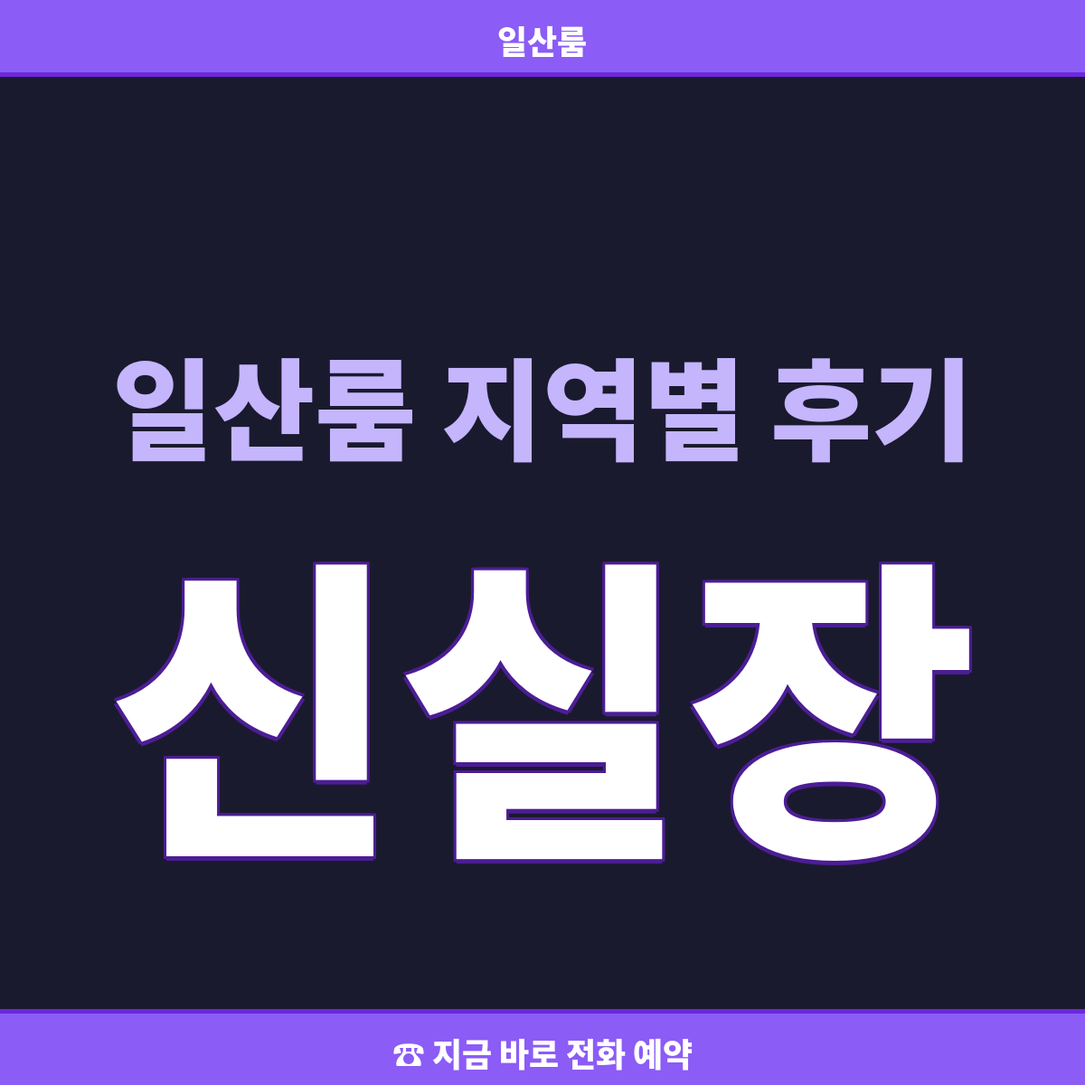
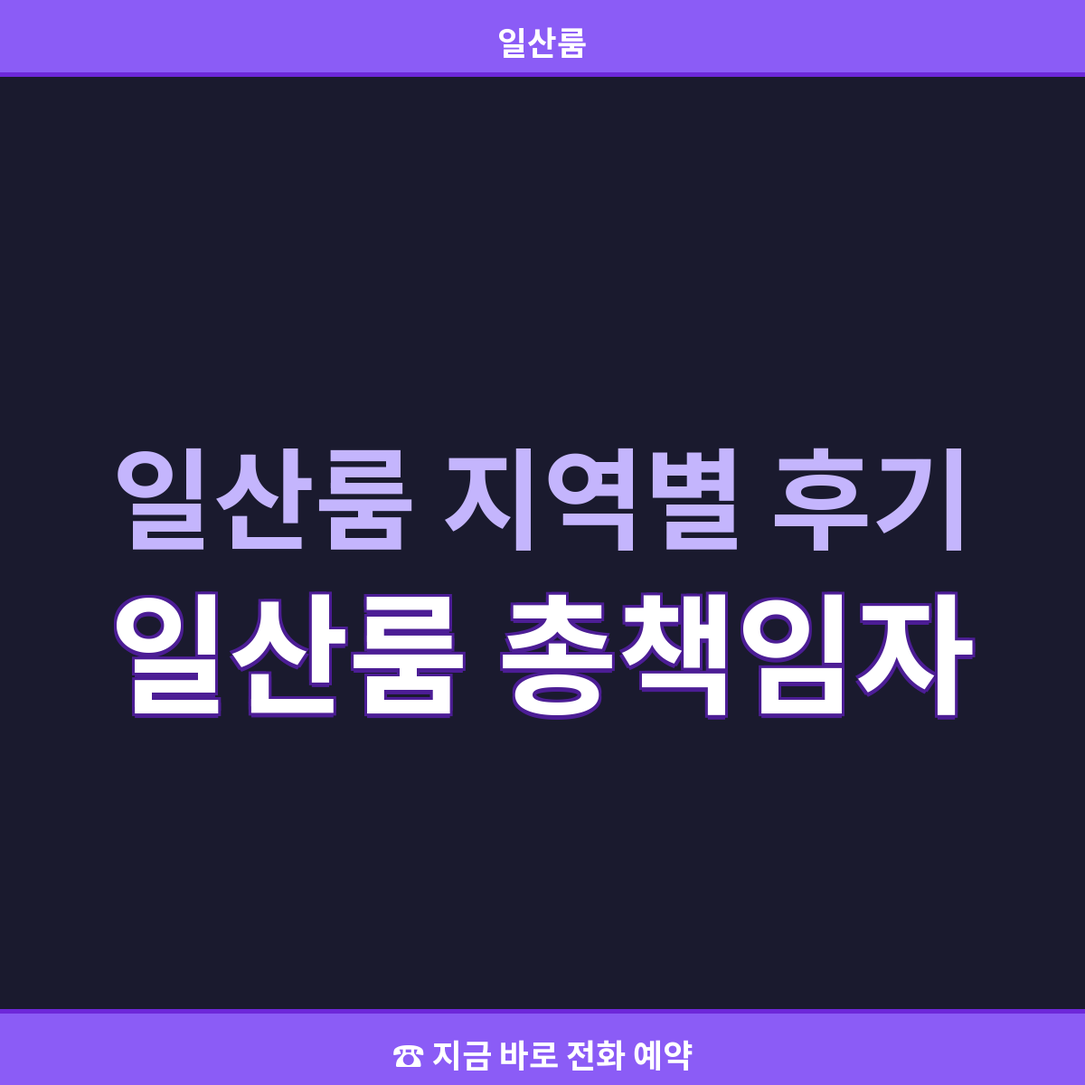
광고주 세트 교체 — 옛 닉네임/번호 -> 일산룸 총책임자 010-4117-5556 (대표님 지시 2026-09-22)
글자와 그림을 함께 바꿨다. 그림은 저장소의 og 생성기를 그대로 다시 돌려 만들었다
(생성기 안 문구도 같이 바뀌어 있어 다음 실행에도 새 값이 나온다).

Changed region(s): [[0.0925, 0.3083, 0.925, 0.8017], [0.37, 0.9558, 0.6475, 0.9867], [0.4625, 0.0308, 0.555, 0.0617]]

diff --git a/index.html b/index.html
@@ -12,7 +12,7 @@
 <title>일산룸 — 예약 전에 반드시 읽어야 할 글</title>
 <meta name="description" content="일산룸 첫 방문자 90%가 모르고 갔다가 후회하는 3가지를 한 번에 정리. 라페스타·웨스턴돔·장항동 권역별 분위기와 예산, 예약 골든타임, 인기 룸 잡는 순서까지 현지에서 발로 뛴 2026년 최신 실전 정보를 광고 0%로 공개합니다.">
 <meta name="keywords" content="일산룸, 일산룸 예약, 일산룸 추천, 일산 룸, 라페스타 룸, 웨스턴돔 룸, 장항동 룸, 고양시 룸, 일산 가이드, 일산 저녁 모임">
-<meta name="author" content="신실장">
+<meta name="author" content="일산룸 총책임자">
 <meta name="robots" content="index, follow, max-image-preview:large, max-snippet:-1, max-video-preview:-1">
 <meta name="googlebot" content="index, follow, max-image-preview:large">
 <link rel="canonical" href="https://ilsanroom1.pages.dev/">
@@ -25,10 +25,10 @@
 <meta property="og:image" content="https://ilsanroom1.pages.dev/og-home.png">
 <meta property="og:image:width" content="1200">
 <meta property="og:image:height" content="1200">
-<meta property="og:image:alt" content="일산룸 가이드 — 신실장 010-3695-4929">
+<meta property="og:image:alt" content="일산룸 가이드 — 일산룸 총책임자 010-4117-5556">
 <meta property="article:published_time" content="2026-04-18T09:00:00+09:00">
 <meta property="article:modified_time" content="2026-09-10T09:00:00+09:00">
-<meta property="article:author" content="신실장">
+<meta property="article:author" content="일산룸 총책임자">
 <meta property="article:section" content="가이드">
 <meta name="twitter:card" content="summary_large_image">
 <meta name="twitter:title" content="일산룸 — 예약 전에 반드시 읽어야 할 글">
@@ -45,12 +45,12 @@
 <script type="application/ld+json">
 {"@context":"https://schema.org","@graph":[
 {"@type":"WebSite","@id":"https://ilsanroom1.pages.dev/#website","name":"일산룸 가이드","url":"https://ilsanroom1.pages.dev/","inLanguage":"ko-KR","publisher":{"@id":"https://ilsanroom1.pages.dev/#org"},"potentialAction":{"@type":"SearchAction","target":"https://ilsanroom1.pages.dev/?q={search_term_string}","query-input":"required name=search_term_string"}},
-{"@type":"Organization","@id":"https://ilsanroom1.pages.dev/#org","name":"일산룸 가이드","url":"https://ilsanroom1.pages.dev/","logo":"https://ilsanroom1.pages.dev/favicon.svg","contactPoint":{"@type":"ContactPoint","telephone":"+82-10-3695-4929","contactType":"customer service","areaServed":"KR","availableLanguage":"ko"}},
-{"@type":"LocalBusiness","@id":"https://ilsanroom1.pages.dev/#business","name":"일산룸 가이드","image":"https://ilsanroom1.pages.dev/og-home.png","url":"https://ilsanroom1.pages.dev/","telephone":"+82-10-3695-4929","priceRange":"₩₩-₩₩₩","address":{"@type":"PostalAddress","streetAddress":"일산동구 장항동","addressLocality":"고양시","addressRegion":"경기도","addressCountry":"KR"},"geo":{"@type":"GeoCoordinates","latitude":"37.6584","longitude":"126.7697"},"areaServed":[{"@type":"City","name":"고양시"},{"@type":"AdministrativeArea","name":"경기도"}],"openingHoursSpecification":[{"@type":"OpeningHoursSpecification","dayOfWeek":["Monday","Tuesday","Wednesday","Thursday","Friday","Saturday","Sunday"],"opens":"18:00","closes":"05:00"}]},
-{"@type":"Article","@id":"https://ilsanroom1.pages.dev/#article","headline":"일산룸 — 예약 전에 반드시 읽어야 할 글","description":"일산룸 첫 방문자 90%가 모르고 갔다가 후회하는 3가지. 라페스타·웨스턴돔·장항동 권역별 분위기·예산·예약 골든타임 실전 정보.","image":"https://ilsanroom1.pages.dev/og-home.png","datePublished":"2026-04-18T09:00:00+09:00","dateModified":"2026-09-10T09:00:00+09:00","author":{"@type":"Person","name":"신실장"},"publisher":{"@id":"https://ilsanroom1.pages.dev/#org"},"mainEntityOfPage":{"@type":"WebPage","@id":"https://ilsanroom1.pages.dev/"},"inLanguage":"ko-KR"},
+{"@type":"Organization","@id":"https://ilsanroom1.pages.dev/#org","name":"일산룸 가이드","url":"https://ilsanroom1.pages.dev/","logo":"https://ilsanroom1.pages.dev/favicon.svg","contactPoint":{"@type":"ContactPoint","telephone":"+82-10-4117-5556","contactType":"customer service","areaServed":"KR","availableLanguage":"ko"}},
+{"@type":"LocalBusiness","@id":"https://ilsanroom1.pages.dev/#business","name":"일산룸 가이드","image":"https://ilsanroom1.pages.dev/og-home.png","url":"https://ilsanroom1.pages.dev/","telephone":"+82-10-4117-5556","priceRange":"₩₩-₩₩₩","address":{"@type":"PostalAddress","streetAddress":"일산동구 장항동","addressLocality":"고양시","addressRegion":"경기도","addressCountry":"KR"},"geo":{"@type":"GeoCoordinates","latitude":"37.6584","longitude":"126.7697"},"areaServed":[{"@type":"City","name":"고양시"},{"@type":"AdministrativeArea","name":"경기도"}],"openingHoursSpecification":[{"@type":"OpeningHoursSpecification","dayOfWeek":["Monday","Tuesday","Wednesday","Thursday","Friday","Saturday","Sunday"],"opens":"18:00","closes":"05:00"}]},
+{"@type":"Article","@id":"https://ilsanroom1.pages.dev/#article","headline":"일산룸 — 예약 전에 반드시 읽어야 할 글","description":"일산룸 첫 방문자 90%가 모르고 갔다가 후회하는 3가지. 라페스타·웨스턴돔·장항동 권역별 분위기·예산·예약 골든타임 실전 정보.","image":"https://ilsanroom1.pages.dev/og-home.png","datePublished":"2026-04-18T09:00:00+09:00","dateModified":"2026-09-10T09:00:00+09:00","author":{"@type":"Person","name":"일산룸 총책임자"},"publisher":{"@id":"https://ilsanroom1.pages.dev/#org"},"mainEntityOfPage":{"@type":"WebPage","@id":"https://ilsanroom1.pages.dev/"},"inLanguage":"ko-KR"},
 {"@type":"BreadcrumbList","itemListElement":[{"@type":"ListItem","position":1,"name":"홈","item":"https://ilsanroom1.pages.dev/"}]},
 {"@type":"FAQPage","mainEntity":[
-{"@type":"Question","name":"일산룸 예약은 어떻게 하나요?","acceptedAnswer":{"@type":"Answer","text":"당일 오후 3시 전에 전화로 예약하는 것이 가장 좋습니다. 방문 인원, 희망 시간, 예산 범위를 구체적으로 말하면 딱 맞는 룸을 배정받을 수 있습니다. 신실장 010-3695-4929로 연락하세요."}},
+{"@type":"Question","name":"일산룸 예약은 어떻게 하나요?","acceptedAnswer":{"@type":"Answer","text":"당일 오후 3시 전에 전화로 예약하는 것이 가장 좋습니다. 방문 인원, 희망 시간, 예산 범위를 구체적으로 말하면 딱 맞는 룸을 배정받을 수 있습니다. 일산룸 총책임자 010-4117-5556로 연락하세요."}},
 {"@type":"Question","name":"일산룸 예산은 어느 정도인가요?","acceptedAnswer":{"@type":"Answer","text":"권역별로 차이가 있습니다. 라페스타는 2인 기준 중급, 웨스턴돔은 상급, 장항동은 중상급 수준입니다. 기본 세팅 포함 여부에 따라 달라지므로 예약 전화 시 총 예상 비용을 반드시 확인하세요."}},
 {"@type":"Question","name":"라페스타·웨스턴돔·장항동 권역 차이는?","acceptedAnswer":{"@type":"Answer","text":"라페스타는 정발산역 도보 5분으로 접근성 최고, 캐주얼 분위기입니다. 웨스턴돔은 고급 인테리어와 세심한 서비스로 비즈니스 모임에 적합합니다. 장항동은 조용하고 프라이빗하며 단골 위주 맞춤 서비스가 장점입니다."}},
 {"@type":"Question","name":"처음 가는데 어느 권역이 좋나요?","acceptedAnswer":{"@type":"Answer","text":"처음이라면 라페스타를 권합니다. 접근성이 좋고 예산 부담이 적으며, 분위기가 캐주얼해서 초보자도 편하게 이용할 수 있습니다."}},
@@ -144,7 +144,7 @@
 
 <figure class="lazy-img"><img data-src="https://images.unsplash.com/photo-1519690889869-e705e59f72e1?w=800&q=80&auto=format" alt="프라이빗 룸 내부" width="800" height="500" loading="lazy" decoding="async"><figcaption>6인 이상 대형 룸은 반드시 사전 예약이 필요하다.</figcaption></figure>
 
-<div class="cta"><a href="tel:01036954929" class="cta-btn" aria-label="신실장에게 전화 — 010-3695-4929">전화 예약 — 신실장 010-3695-4929</a></div>
+<div class="cta"><a href="tel:01041175556" class="cta-btn" aria-label="일산룸 총책임자에게 전화 — 010-4117-5556">전화 예약 — 일산룸 총책임자 010-4117-5556</a></div>
 
 <h2>일산룸, 이런 분위기를 기대해도 좋다</h2>
 
@@ -167,7 +167,7 @@
 <div class="faq">
 <details class="faq-item" open>
 <summary class="faq-q">일산룸 예약은 어떻게 하나요?</summary>
-<p class="faq-a">일산룸 예약은 당일 오후 3시 전에 전화로 하는 것이 가장 좋다. 방문 인원, 희망 시간, 예산 범위를 구체적으로 말하면 딱 맞는 룸을 배정받을 수 있다. 금요일·토요일은 당일 예약이 어려운 경우가 많으니 최소 하루 전에 연락하는 것을 권한다. 신실장 010-3695-4929로 전화하면 상세하게 안내받을 수 있다.</p>
+<p class="faq-a">일산룸 예약은 당일 오후 3시 전에 전화로 하는 것이 가장 좋다. 방문 인원, 희망 시간, 예산 범위를 구체적으로 말하면 딱 맞는 룸을 배정받을 수 있다. 금요일·토요일은 당일 예약이 어려운 경우가 많으니 최소 하루 전에 연락하는 것을 권한다. 일산룸 총책임자 010-4117-5556로 전화하면 상세하게 안내받을 수 있다.</p>
 </details>
 <details class="faq-item">
 <summary class="faq-q">일산룸 예산은 어느 정도인가요?</summary>
@@ -221,14 +221,14 @@
 <li><a href="/legal">운영 정책 — 19+ · 합법 운영</a></li>
 </ul></nav>
 
-<div class="cta"><a href="tel:01036954929" class="cta-btn" aria-label="신실장에게 전화 — 010-3695-4929">전화 예약 — 신실장 010-3695-4929</a></div>
+<div class="cta"><a href="tel:01041175556" class="cta-btn" aria-label="일산룸 총책임자에게 전화 — 010-4117-5556">전화 예약 — 일산룸 총책임자 010-4117-5556</a></div>
 
 </article>
 </main>
 
 <footer>
 <nav class="footer-nav" aria-label="푸터 메뉴"><a href="/">일산룸 홈</a><a href="/guide">초보자 가이드</a><a href="/review">권역별 후기</a><a href="/legal">운영 정책</a></nav>
-<p>일산룸 예약 문의 — 신실장 <a href="tel:01036954929" style="color:var(--purple);font-weight:700">010-3695-4929</a></p>
+<p>일산룸 예약 문의 — 일산룸 총책임자 <a href="tel:01041175556" style="color:var(--purple);font-weight:700">010-4117-5556</a></p>
 <p>경기도 고양시 일산동구 장항동 일산룸 가이드</p>
 <p>본 사이트는 19세 이상 성인 대상 정보 제공 목적으로 운영됩니다.</p>
 <p>정보통신망법·청소년보호법·방송통신심의위원회 가이드라인 준수</p>
@@ -236,9 +236,9 @@
 </footer>
 
 <div class="phone-bar">
-<a href="tel:01036954929" class="phone-bar-btn" aria-label="신실장에게 전화하기 010-3695-4929">
+<a href="tel:01041175556" class="phone-bar-btn" aria-label="일산룸 총책임자에게 전화하기 010-4117-5556">
 <svg width="22" height="22" viewBox="0 0 24 24" fill="none" stroke="currentColor" stroke-width="2" aria-hidden="true"><path d="M22 16.92v3a2 2 0 0 1-2.18 2 19.79 19.79 0 0 1-8.63-3.07 19.5 19.5 0 0 1-6-6A19.79 19.79 0 0 1 2.12 4.11 2 2 0 0 1 4.11 2h3a2 2 0 0 1 2 1.72c.127.96.361 1.903.7 2.81a2 2 0 0 1-.45 2.11L8.09 9.91a16 16 0 0 0 6 6l1.27-1.27a2 2 0 0 1 2.11-.45c.907.339 1.85.573 2.81.7A2 2 0 0 1 22 16.92z"/></svg>
-<span>신실장 010-3695-4929</span>
+<span>일산룸 총책임자 010-4117-5556</span>
 </a>
 </div>
 

diff --git a/guide.html b/guide.html
@@ -11,7 +11,7 @@
 <title>일산룸 초보자 가이드 — 처음 가는 사람을 위한 완벽 정리</title>
 <meta name="description" content="일산룸 처음 가는 사람 절반이 어색하게 앉아만 있다 나오는 이유는 단 하나. 예약 골든타임, 깔끔한 복장 기준, 입장 30분 매너, 결제 영수증 체크까지 첫 방문 실패율 0%로 만드는 단계별 완벽 체크리스트를 솔직하게 풀었습니다.">
 <meta name="keywords" content="일산룸 초보, 일산룸 가이드, 일산룸 예약 방법, 일산룸 복장, 일산룸 매너, 일산룸 첫 방문, 일산 룸 이용법, 일산룸 결제">
-<meta name="author" content="신실장">
+<meta name="author" content="일산룸 총책임자">
 <meta name="robots" content="index, follow, max-image-preview:large, max-snippet:-1, max-video-preview:-1">
 <meta name="googlebot" content="index, follow, max-image-preview:large">
 <link rel="canonical" href="https://ilsanroom1.pages.dev/guide">
@@ -24,10 +24,10 @@
 <meta property="og:image" content="https://ilsanroom1.pages.dev/og-guide.png">
 <meta property="og:image:width" content="1200">
 <meta property="og:image:height" content="1200">
-<meta property="og:image:alt" content="일산룸 초보자 가이드 — 신실장">
+<meta property="og:image:alt" content="일산룸 초보자 가이드 — 일산룸 총책임자">
 <meta property="article:published_time" content="2026-04-18T09:00:00+09:00">
 <meta property="article:modified_time" content="2026-09-10T09:00:00+09:00">
-<meta property="article:author" content="신실장">
+<meta property="article:author" content="일산룸 총책임자">
 <meta property="article:section" content="가이드">
 <meta name="twitter:card" content="summary_large_image">
 <meta name="twitter:title" content="일산룸 초보자 가이드 — 처음 가는 사람을 위한 완벽 정리">
@@ -44,9 +44,9 @@
 <script type="application/ld+json">
 {"@context":"https://schema.org","@graph":[
 {"@type":"WebSite","@id":"https://ilsanroom1.pages.dev/#website","name":"일산룸 가이드","url":"https://ilsanroom1.pages.dev/","inLanguage":"ko-KR","publisher":{"@id":"https://ilsanroom1.pages.dev/#org"}},
-{"@type":"Organization","@id":"https://ilsanroom1.pages.dev/#org","name":"일산룸 가이드","url":"https://ilsanroom1.pages.dev/","logo":"https://ilsanroom1.pages.dev/favicon.svg","contactPoint":{"@type":"ContactPoint","telephone":"+82-10-3695-4929","contactType":"customer service","areaServed":"KR","availableLanguage":"ko"}},
-{"@type":"LocalBusiness","@id":"https://ilsanroom1.pages.dev/#business","name":"일산룸 가이드","image":"https://ilsanroom1.pages.dev/og-guide.png","url":"https://ilsanroom1.pages.dev/","telephone":"+82-10-3695-4929","priceRange":"₩₩-₩₩₩","address":{"@type":"PostalAddress","streetAddress":"일산동구 장항동","addressLocality":"고양시","addressRegion":"경기도","addressCountry":"KR"},"geo":{"@type":"GeoCoordinates","latitude":"37.6584","longitude":"126.7697"}},
-{"@type":"Article","@id":"https://ilsanroom1.pages.dev/guide#article","headline":"일산룸 초보자 가이드 — 처음 가는 사람을 위한 완벽 정리","description":"일산룸 처음이면 절반은 어색하게 앉아만 있다 나온다. 예약 골든타임·복장·매너·결제 체크리스트로 첫 방문 실패율 0%.","image":"https://ilsanroom1.pages.dev/og-guide.png","datePublished":"2026-04-18T09:00:00+09:00","dateModified":"2026-09-10T09:00:00+09:00","author":{"@type":"Person","name":"신실장"},"publisher":{"@id":"https://ilsanroom1.pages.dev/#org"},"mainEntityOfPage":{"@type":"WebPage","@id":"https://ilsanroom1.pages.dev/guide"},"inLanguage":"ko-KR"},
+{"@type":"Organization","@id":"https://ilsanroom1.pages.dev/#org","name":"일산룸 가이드","url":"https://ilsanroom1.pages.dev/","logo":"https://ilsanroom1.pages.dev/favicon.svg","contactPoint":{"@type":"ContactPoint","telephone":"+82-10-4117-5556","contactType":"customer service","areaServed":"KR","availableLanguage":"ko"}},
+{"@type":"LocalBusiness","@id":"https://ilsanroom1.pages.dev/#business","name":"일산룸 가이드","image":"https://ilsanroom1.pages.dev/og-guide.png","url":"https://ilsanroom1.pages.dev/","telephone":"+82-10-4117-5556","priceRange":"₩₩-₩₩₩","address":{"@type":"PostalAddress","streetAddress":"일산동구 장항동","addressLocality":"고양시","addressRegion":"경기도","addressCountry":"KR"},"geo":{"@type":"GeoCoordinates","latitude":"37.6584","longitude":"126.7697"}},
+{"@type":"Article","@id":"https://ilsanroom1.pages.dev/guide#article","headline":"일산룸 초보자 가이드 — 처음 가는 사람을 위한 완벽 정리","description":"일산룸 처음이면 절반은 어색하게 앉아만 있다 나온다. 예약 골든타임·복장·매너·결제 체크리스트로 첫 방문 실패율 0%.","image":"https://ilsanroom1.pages.dev/og-guide.png","datePublished":"2026-04-18T09:00:00+09:00","dateModified":"2026-09-10T09:00:00+09:00","author":{"@type":"Person","name":"일산룸 총책임자"},"publisher":{"@id":"https://ilsanroom1.pages.dev/#org"},"mainEntityOfPage":{"@type":"WebPage","@id":"https://ilsanroom1.pages.dev/guide"},"inLanguage":"ko-KR"},
 {"@type":"BreadcrumbList","itemListElement":[{"@type":"ListItem","position":1,"name":"홈","item":"https://ilsanroom1.pages.dev/"},{"@type":"ListItem","position":2,"name":"초보자 가이드","item":"https://ilsanroom1.pages.dev/guide"}]},
 {"@type":"HowTo","name":"일산룸 첫 방문 완벽 체크리스트","description":"일산룸 처음 가는 사람이 어색함 없이 자연스럽게 즐기는 단계별 방법","totalTime":"PT30M","step":[{"@type":"HowToStep","position":1,"name":"예약 골든타임 전화","text":"오후 2~4시 사이에 전화해 인원·시간·예산을 구체적으로 말한다. 매니저가 여유 있어 상세히 안내받을 수 있다."},{"@type":"HowToStep","position":2,"name":"깔끔한 캐주얼 복장","text":"청바지에 깨끗한 셔츠, 로퍼나 구두. 츄리닝·슬리퍼·과한 향수 금지."},{"@type":"HowToStep","position":3,"name":"10분 일찍 도착","text":"룸 상태 미리 확인하고 필요한 요청을 여유롭게 한다. 늦으면 예약 취소될 수 있다."},{"@type":"HowToStep","position":4,"name":"입장 30분 분위기 만들기","text":"가벼운 음료 주문 후 자연스러운 대화. 스마트폰 자제, 모든 참석자가 대화에 참여."},{"@type":"HowToStep","position":5,"name":"퇴장 및 결제 체크","text":"테이블 정돈, 소지품 확인, 영수증 항목과 상호명 반드시 확인한 뒤 결제."}]},
 {"@type":"FAQPage","mainEntity":[
@@ -114,7 +114,7 @@
 
 <p>처음 30분 동안의 분위기가 그날 전체 경험을 좌우한다. 이 시간 동안 스마트폰을 보거나 한쪽에서만 이야기하면 전체 흐름이 끊긴다. 모든 참석자가 대화에 참여할 수 있는 분위기를 만드는 게 핵심이다.</p>
 
-<div class="cta"><a href="tel:01036954929" class="cta-btn" aria-label="신실장에게 전화 — 010-3695-4929">전화 예약 — 신실장 010-3695-4929</a></div>
+<div class="cta"><a href="tel:01041175556" class="cta-btn" aria-label="일산룸 총책임자에게 전화 — 010-4117-5556">전화 예약 — 일산룸 총책임자 010-4117-5556</a></div>
 
 <figure class="lazy-img"><img data-src="https://images.unsplash.com/photo-1514933651103-005eec06c04b?w=800&q=80&auto=format" alt="바에서 대화하는 모습" width="800" height="500" loading="lazy" decoding="async"><figcaption>처음 30분 안에 자연스러운 분위기를 만드는 게 핵심이다.</figcaption></figure>
 
@@ -170,14 +170,14 @@
 <li><a href="/legal">운영 정책 — 19+ · 합법 운영</a></li>
 </ul></nav>
 
-<div class="cta"><a href="tel:01036954929" class="cta-btn" aria-label="신실장에게 전화 — 010-3695-4929">전화 예약 — 신실장 010-3695-4929</a></div>
+<div class="cta"><a href="tel:01041175556" class="cta-btn" aria-label="일산룸 총책임자에게 전화 — 010-4117-5556">전화 예약 — 일산룸 총책임자 010-4117-5556</a></div>
 
 </article>
 </main>
 
 <footer>
 <nav class="footer-nav" aria-label="푸터 메뉴"><a href="/">일산룸 홈</a><a href="/guide">초보자 가이드</a><a href="/review">권역별 후기</a><a href="/legal">운영 정책</a></nav>
-<p>일산룸 예약 문의 — 신실장 <a href="tel:01036954929" style="color:var(--purple);font-weight:700">010-3695-4929</a></p>
+<p>일산룸 예약 문의 — 일산룸 총책임자 <a href="tel:01041175556" style="color:var(--purple);font-weight:700">010-4117-5556</a></p>
 <p>경기도 고양시 일산동구 장항동 일산룸 가이드</p>
 <p>본 사이트는 19세 이상 성인 대상 정보 제공 목적으로 운영됩니다.</p>
 <p>정보통신망법·청소년보호법·방송통신심의위원회 가이드라인 준수</p>
@@ -185,9 +185,9 @@
 </footer>
 
 <div class="phone-bar">
-<a href="tel:01036954929" class="phone-bar-btn" aria-label="신실장에게 전화하기 010-3695-4929">
+<a href="tel:01041175556" class="phone-bar-btn" aria-label="일산룸 총책임자에게 전화하기 010-4117-5556">
 <svg width="22" height="22" viewBox="0 0 24 24" fill="none" stroke="currentColor" stroke-width="2" aria-hidden="true"><path d="M22 16.92v3a2 2 0 0 1-2.18 2 19.79 19.79 0 0 1-8.63-3.07 19.5 19.5 0 0 1-6-6A19.79 19.79 0 0 1 2.12 4.11 2 2 0 0 1 4.11 2h3a2 2 0 0 1 2 1.72c.127.96.361 1.903.7 2.81a2 2 0 0 1-.45 2.11L8.09 9.91a16 16 0 0 0 6 6l1.27-1.27a2 2 0 0 1 2.11-.45c.907.339 1.85.573 2.81.7A2 2 0 0 1 22 16.92z"/></svg>
-<span>신실장 010-3695-4929</span>
+<span>일산룸 총책임자 010-4117-5556</span>
 </a>
 </div>
 

diff --git a/review.html b/review.html
@@ -11,7 +11,7 @@
 <title>일산룸 권역별 솔직 후기 — 라페스타·웨스턴돔·장항동 직접 비교</title>
 <meta name="description" content="일산룸 3개 권역을 직접 결제하고 다녀온 실전 비교 리포트. 라페스타 접근성, 웨스턴돔 인테리어, 장항동 프라이빗 분위기까지 분위기·서비스·예산·예약 난이도를 한 페이지로 정리한 광고 0% 솔직 후기를 공개합니다.">
 <meta name="keywords" content="일산룸 후기, 일산룸 리뷰, 일산룸 비교, 라페스타 룸 후기, 웨스턴돔 룸 후기, 장항동 룸 후기, 일산 룸 추천, 권역별 솔직 후기">
-<meta name="author" content="신실장">
+<meta name="author" content="일산룸 총책임자">
 <meta name="robots" content="index, follow, max-image-preview:large, max-snippet:-1, max-video-preview:-1">
 <meta name="googlebot" content="index, follow, max-image-preview:large">
 <link rel="canonical" href="https://ilsanroom1.pages.dev/review">
@@ -27,7 +27,7 @@
 <meta property="og:image:alt" content="일산룸 권역별 솔직 후기 — 라페스타·웨스턴돔·장항동 직접 비교">
 <meta property="article:published_time" content="2026-04-18T09:00:00+09:00">
 <meta property="article:modified_time" content="2026-09-10T09:00:00+09:00">
-<meta property="article:author" content="신실장">
+<meta property="article:author" content="일산룸 총책임자">
 <meta property="article:section" content="후기">
 <meta name="twitter:card" content="summary_large_image">
 <meta name="twitter:title" content="일산룸 권역별 솔직 후기 — 라페스타·웨스턴돔·장항동 직접 비교">
@@ -44,9 +44,9 @@
 <script type="application/ld+json">
 {"@context":"https://schema.org","@graph":[
 {"@type":"WebSite","@id":"https://ilsanroom1.pages.dev/#website","name":"일산룸 가이드","url":"https://ilsanroom1.pages.dev/","inLanguage":"ko-KR","publisher":{"@id":"https://ilsanroom1.pages.dev/#org"}},
-{"@type":"Organization","@id":"https://ilsanroom1.pages.dev/#org","name":"일산룸 가이드","url":"https://ilsanroom1.pages.dev/","logo":"https://ilsanroom1.pages.dev/favicon.svg","contactPoint":{"@type":"ContactPoint","telephone":"+82-10-3695-4929","contactType":"customer service","areaServed":"KR","availableLanguage":"ko"}},
-{"@type":"LocalBusiness","@id":"https://ilsanroom1.pages.dev/#business","name":"일산룸 가이드","image":"https://ilsanroom1.pages.dev/og-review.png","url":"https://ilsanroom1.pages.dev/","telephone":"+82-10-3695-4929","priceRange":"₩₩-₩₩₩","address":{"@type":"PostalAddress","streetAddress":"일산동구 장항동","addressLocality":"고양시","addressRegion":"경기도","addressCountry":"KR"},"geo":{"@type":"GeoCoordinates","latitude":"37.6584","longitude":"126.7697"}},
-{"@type":"Article","@id":"https://ilsanroom1.pages.dev/review#article","headline":"일산룸 권역별 솔직 후기 — 라페스타·웨스턴돔·장항동 직접 비교","description":"일산룸 3개 권역 결제하고 다녀온 실전 비교 리포트. 라페스타 접근성, 웨스턴돔 인테리어, 장항동 프라이빗 분위기까지 광고 없는 솔직 후기.","image":"https://ilsanroom1.pages.dev/og-review.png","datePublished":"2026-04-18T09:00:00+09:00","dateModified":"2026-09-10T09:00:00+09:00","author":{"@type":"Person","name":"신실장"},"publisher":{"@id":"https://ilsanroom1.pages.dev/#org"},"mainEntityOfPage":{"@type":"WebPage","@id":"https://ilsanroom1.pages.dev/review"},"inLanguage":"ko-KR"},
+{"@type":"Organization","@id":"https://ilsanroom1.pages.dev/#org","name":"일산룸 가이드","url":"https://ilsanroom1.pages.dev/","logo":"https://ilsanroom1.pages.dev/favicon.svg","contactPoint":{"@type":"ContactPoint","telephone":"+82-10-4117-5556","contactType":"customer service","areaServed":"KR","availableLanguage":"ko"}},
+{"@type":"LocalBusiness","@id":"https://ilsanroom1.pages.dev/#business","name":"일산룸 가이드","image":"https://ilsanroom1.pages.dev/og-review.png","url":"https://ilsanroom1.pages.dev/","telephone":"+82-10-4117-5556","priceRange":"₩₩-₩₩₩","address":{"@type":"PostalAddress","streetAddress":"일산동구 장항동","addressLocality":"고양시","addressRegion":"경기도","addressCountry":"KR"},"geo":{"@type":"GeoCoordinates","latitude":"37.6584","longitude":"126.7697"}},
+{"@type":"Article","@id":"https://ilsanroom1.pages.dev/review#article","headline":"일산룸 권역별 솔직 후기 — 라페스타·웨스턴돔·장항동 직접 비교","description":"일산룸 3개 권역 결제하고 다녀온 실전 비교 리포트. 라페스타 접근성, 웨스턴돔 인테리어, 장항동 프라이빗 분위기까지 광고 없는 솔직 후기.","image":"https://ilsanroom1.pages.dev/og-review.png","datePublished":"2026-04-18T09:00:00+09:00","dateModified":"2026-09-10T09:00:00+09:00","author":{"@type":"Person","name":"일산룸 총책임자"},"publisher":{"@id":"https://ilsanroom1.pages.dev/#org"},"mainEntityOfPage":{"@type":"WebPage","@id":"https://ilsanroom1.pages.dev/review"},"inLanguage":"ko-KR"},
 {"@type":"BreadcrumbList","itemListElement":[{"@type":"ListItem","position":1,"name":"홈","item":"https://ilsanroom1.pages.dev/"},{"@type":"ListItem","position":2,"name":"권역별 후기","item":"https://ilsanroom1.pages.dev/review"}]},
 {"@type":"ItemList","name":"일산룸 권역별 비교","itemListOrder":"https://schema.org/ItemListOrderDescending","numberOfItems":3,"itemListElement":[{"@type":"ListItem","position":1,"name":"라페스타 권역","description":"정발산역 도보 5분, 캐주얼 활기, 2인 기준 중급 예산, 첫 방문자 추천"},{"@type":"ListItem","position":2,"name":"웨스턴돔 권역","description":"주엽역 도보 10분, 호텔 라운지급 인테리어, 비즈니스 모임 적합, 상급 예산"},{"@type":"ListItem","position":3,"name":"장항동 권역","description":"차량 필수, 조용한 프라이빗 분위기, 단골 맞춤 서비스, 중상급 예산"}]},
 {"@type":"FAQPage","mainEntity":[
@@ -110,7 +110,7 @@
 
 <blockquote class="pull-quote">"웨스턴돔은 예산만큼의 값어치를 하는 몇 안 되는 곳이다"</blockquote>
 
-<div class="cta"><a href="tel:01036954929" class="cta-btn" aria-label="신실장에게 전화 — 010-3695-4929">전화 예약 — 신실장 010-3695-4929</a></div>
+<div class="cta"><a href="tel:01041175556" class="cta-btn" aria-label="일산룸 총책임자에게 전화 — 010-4117-5556">전화 예약 — 일산룸 총책임자 010-4117-5556</a></div>
 
 <h2>일산룸 장항동 — 숨은 고수들의 선택</h2>
 
@@ -160,14 +160,14 @@
 <li><a href="/legal">운영 정책 — 19+ · 합법 운영</a></li>
 </ul></nav>
 
-<div class="cta"><a href="tel:01036954929" class="cta-btn" aria-label="신실장에게 전화 — 010-3695-4929">전화 예약 — 신실장 010-3695-4929</a></div>
+<div class="cta"><a href="tel:01041175556" class="cta-btn" aria-label="일산룸 총책임자에게 전화 — 010-4117-5556">전화 예약 — 일산룸 총책임자 010-4117-5556</a></div>
 
 </article>
 </main>
 
 <footer>
 <nav class="footer-nav" aria-label="푸터 메뉴"><a href="/">일산룸 홈</a><a href="/guide">초보자 가이드</a><a href="/review">권역별 후기</a><a href="/legal">운영 정책</a></nav>
-<p>일산룸 예약 문의 — 신실장 <a href="tel:01036954929" style="color:var(--purple);font-weight:700">010-3695-4929</a></p>
+<p>일산룸 예약 문의 — 일산룸 총책임자 <a href="tel:01041175556" style="color:var(--purple);font-weight:700">010-4117-5556</a></p>
 <p>경기도 고양시 일산동구 장항동 일산룸 가이드</p>
 <p>본 사이트는 19세 이상 성인 대상 정보 제공 목적으로 운영됩니다.</p>
 <p>정보통신망법·청소년보호법·방송통신심의위원회 가이드라인 준수</p>
@@ -175,9 +175,9 @@
 </footer>
 
 <div class="phone-bar">
-<a href="tel:01036954929" class="phone-bar-btn" aria-label="신실장에게 전화하기 010-3695-4929">
+<a href="tel:01041175556" class="phone-bar-btn" aria-label="일산룸 총책임자에게 전화하기 010-4117-5556">
 <svg width="22" height="22" viewBox="0 0 24 24" fill="none" stroke="currentColor" stroke-width="2" aria-hidden="true"><path d="M22 16.92v3a2 2 0 0 1-2.18 2 19.79 19.79 0 0 1-8.63-3.07 19.5 19.5 0 0 1-6-6A19.79 19.79 0 0 1 2.12 4.11 2 2 0 0 1 4.11 2h3a2 2 0 0 1 2 1.72c.127.96.361 1.903.7 2.81a2 2 0 0 1-.45 2.11L8.09 9.91a16 16 0 0 0 6 6l1.27-1.27a2 2 0 0 1 2.11-.45c.907.339 1.85.573 2.81.7A2 2 0 0 1 22 16.92z"/></svg>
-<span>신실장 010-3695-4929</span>
+<span>일산룸 총책임자 010-4117-5556</span>
 </a>
 </div>
 

diff --git a/legal.html b/legal.html
@@ -31,8 +31,8 @@
 <script type="application/ld+json">
 {"@context":"https://schema.org","@graph":[
 {"@type":"WebSite","@id":"https://ilsanroom1.pages.dev/#website","name":"일산룸 가이드","url":"https://ilsanroom1.pages.dev/","inLanguage":"ko-KR","publisher":{"@id":"https://ilsanroom1.pages.dev/#org"}},
-{"@type":"Organization","@id":"https://ilsanroom1.pages.dev/#org","name":"일산룸 가이드","url":"https://ilsanroom1.pages.dev/","logo":"https://ilsanroom1.pages.dev/favicon.svg","contactPoint":{"@type":"ContactPoint","telephone":"+82-10-3695-4929","contactType":"customer service","areaServed":"KR","availableLanguage":"ko"}},
-{"@type":"WebPage","@id":"https://ilsanroom1.pages.dev/legal","name":"운영 정책 — 19+ 성인 전용 · 정보통신망법 준수","url":"https://ilsanroom1.pages.dev/legal","isPartOf":{"@id":"https://ilsanroom1.pages.dev/#website"},"inLanguage":"ko-KR","datePublished":"2026-04-18T09:00:00+09:00","dateModified":"2026-09-10T09:00:00+09:00","description":"일산룸 정보 사이트 정책 안내. 19세 이상 성인 전용 접근, 정보통신망법·청소년보호법·방송통신심의위 가이드라인 100% 준수.","author":{"@type":"Person","name":"신실장"}},
+{"@type":"Organization","@id":"https://ilsanroom1.pages.dev/#org","name":"일산룸 가이드","url":"https://ilsanroom1.pages.dev/","logo":"https://ilsanroom1.pages.dev/favicon.svg","contactPoint":{"@type":"ContactPoint","telephone":"+82-10-4117-5556","contactType":"customer service","areaServed":"KR","availableLanguage":"ko"}},
+{"@type":"WebPage","@id":"https://ilsanroom1.pages.dev/legal","name":"운영 정책 — 19+ 성인 전용 · 정보통신망법 준수","url":"https://ilsanroom1.pages.dev/legal","isPartOf":{"@id":"https://ilsanroom1.pages.dev/#website"},"inLanguage":"ko-KR","datePublished":"2026-04-18T09:00:00+09:00","dateModified":"2026-09-10T09:00:00+09:00","description":"일산룸 정보 사이트 정책 안내. 19세 이상 성인 전용 접근, 정보통신망법·청소년보호법·방송통신심의위 가이드라인 100% 준수.","author":{"@type":"Person","name":"일산룸 총책임자"}},
 {"@type":"BreadcrumbList","itemListElement":[{"@type":"ListItem","position":1,"name":"홈","item":"https://ilsanroom1.pages.dev/"},{"@type":"ListItem","position":2,"name":"운영 정책","item":"https://ilsanroom1.pages.dev/legal"}]}
 ]}
 </script>
@@ -104,7 +104,7 @@
 
 <h2>8. 문의 및 신고</h2>
 <p>본 사이트 운영 정책 위반, 게재 내용에 대한 정정 요청, 기타 문의 사항은 아래 연락처로 접수해주시기 바랍니다.</p>
-<p style="padding:16px;background:var(--bg2);border-radius:12px"><strong>운영자</strong> 신실장<br><strong>연락처</strong> <a href="tel:01036954929" style="color:var(--purple);font-weight:700">010-3695-4929</a></p>
+<p style="padding:16px;background:var(--bg2);border-radius:12px"><strong>운영자</strong> 일산룸 총책임자<br><strong>연락처</strong> <a href="tel:01041175556" style="color:var(--purple);font-weight:700">010-4117-5556</a></p>
 
 <h2>9. 신고 채널</h2>
 <ul style="padding-left:20px;margin:0 0 20px;color:var(--text2);line-height:1.8">
@@ -126,7 +126,7 @@
 
 <footer>
 <nav class="footer-nav" aria-label="푸터 메뉴"><a href="/">일산룸 홈</a><a href="/guide">초보자 가이드</a><a href="/review">권역별 후기</a><a href="/legal">운영 정책</a></nav>
-<p>일산룸 예약 문의 — 신실장 <a href="tel:01036954929" style="color:var(--purple);font-weight:700">010-3695-4929</a></p>
+<p>일산룸 예약 문의 — 일산룸 총책임자 <a href="tel:01041175556" style="color:var(--purple);font-weight:700">010-4117-5556</a></p>
 <p>경기도 고양시 일산동구 장항동 일산룸 가이드</p>
 <p>본 사이트는 19세 이상 성인 대상 정보 제공 목적으로 운영됩니다.</p>
 <p>정보통신망법·청소년보호법·방송통신심의위원회 가이드라인 준수</p>
@@ -134,9 +134,9 @@
 </footer>
 
 <div class="phone-bar">
-<a href="tel:01036954929" class="phone-bar-btn" aria-label="신실장에게 전화하기 010-3695-4929">
+<a href="tel:01041175556" class="phone-bar-btn" aria-label="일산룸 총책임자에게 전화하기 010-4117-5556">
 <svg width="22" height="22" viewBox="0 0 24 24" fill="none" stroke="currentColor" stroke-width="2" aria-hidden="true"><path d="M22 16.92v3a2 2 0 0 1-2.18 2 19.79 19.79 0 0 1-8.63-3.07 19.5 19.5 0 0 1-6-6A19.79 19.79 0 0 1 2.12 4.11 2 2 0 0 1 4.11 2h3a2 2 0 0 1 2 1.72c.127.96.361 1.903.7 2.81a2 2 0 0 1-.45 2.11L8.09 9.91a16 16 0 0 0 6 6l1.27-1.27a2 2 0 0 1 2.11-.45c.907.339 1.85.573 2.81.7A2 2 0 0 1 22 16.92z"/></svg>
-<span>신실장 010-3695-4929</span>
+<span>일산룸 총책임자 010-4117-5556</span>
 </a>
 </div>
 

diff --git a/main.js b/main.js
@@ -62,7 +62,7 @@ document.querySelectorAll('.secret').forEach(el => {
       const cnt = {}; answers.forEach(a => cnt[a] = (cnt[a] || 0) + 1);
       const w = Object.entries(cnt).sort((a, b) => b[1] - a[1])[0][0];
       const r = res[w];
-      body.innerHTML = '<div class="quiz-result"><div class="quiz-result-tag">' + r.tag + '</div><h4>' + r.title + '</h4><p>' + r.desc + '</p><a href="tel:01036954929" class="cta-btn" style="display:inline-flex;padding:12px 28px;margin-bottom:12px">전화 예약 010-3695-4929</a><br><button type="button" class="quiz-retry">다시 해보기</button></div>';
+      body.innerHTML = '<div class="quiz-result"><div class="quiz-result-tag">' + r.tag + '</div><h4>' + r.title + '</h4><p>' + r.desc + '</p><a href="tel:01041175556" class="cta-btn" style="display:inline-flex;padding:12px 28px;margin-bottom:12px">전화 예약 010-4117-5556</a><br><button type="button" class="quiz-retry">다시 해보기</button></div>';
       body.querySelector('.quiz-retry').addEventListener('click', () => { step = 0; answers = []; render(); });
     }
   }
@@ -138,7 +138,7 @@ if ('IntersectionObserver' in window) {
       overlay.setAttribute('aria-modal', 'true');
       overlay.setAttribute('aria-label', '예약 안내');
       overlay.style.cssText = 'position:fixed;inset:0;z-index:200;background:rgba(0,0,0,.6);display:flex;align-items:center;justify-content:center;padding:20px;animation:fadeIn .3s';
-      overlay.innerHTML = '<div style="background:#fff;border-radius:18px;padding:36px 28px 28px;max-width:400px;width:100%;text-align:center;position:relative;box-shadow:0 16px 48px rgba(0,0,0,.2)"><button type="button" aria-label="닫기" onclick="this.closest(\'div\').parentElement.remove();sessionStorage.setItem(\'exitDismissed\',\'true\')" style="position:absolute;top:12px;right:16px;background:none;border:none;font-size:28px;color:var(--text2);cursor:pointer;min-width:44px;min-height:44px">&times;</button><p style="font-size:22px;font-weight:900;margin-bottom:10px">잠깐! 이것만 보고 가세요</p><p style="font-size:15px;color:var(--text2);line-height:1.6;margin-bottom:24px">예약은 전화 한 통이면 끝납니다. 신실장이 직접 안내해 드립니다.</p><a href="tel:01036954929" class="cta-btn" onclick="sessionStorage.setItem(\'exitDismissed\',\'true\')">신실장 010-3695-4929 →</a></div>';
+      overlay.innerHTML = '<div style="background:#fff;border-radius:18px;padding:36px 28px 28px;max-width:400px;width:100%;text-align:center;position:relative;box-shadow:0 16px 48px rgba(0,0,0,.2)"><button type="button" aria-label="닫기" onclick="this.closest(\'div\').parentElement.remove();sessionStorage.setItem(\'exitDismissed\',\'true\')" style="position:absolute;top:12px;right:16px;background:none;border:none;font-size:28px;color:var(--text2);cursor:pointer;min-width:44px;min-height:44px">&times;</button><p style="font-size:22px;font-weight:900;margin-bottom:10px">잠깐! 이것만 보고 가세요</p><p style="font-size:15px;color:var(--text2);line-height:1.6;margin-bottom:24px">예약은 전화 한 통이면 끝납니다. 일산룸 총책임자이 직접 안내해 드립니다.</p><a href="tel:01041175556" class="cta-btn" onclick="sessionStorage.setItem(\'exitDismissed\',\'true\')">일산룸 총책임자 010-4117-5556 →</a></div>';
       overlay.addEventListener('click', e => { if (e.target === overlay) { overlay.remove(); sessionStorage.setItem('exitDismissed', 'true'); } });
       document.body.appendChild(overlay);
       window.removeEventListener('scroll', check);

diff --git a/offline.html b/offline.html
@@ -13,7 +13,7 @@
 <main class="offline">
 <h1>오프라인 상태입니다</h1>
 <p>인터넷 연결을 확인한 후 다시 시도해주세요.<br>전화 예약은 지금도 가능합니다.</p>
-<a href="tel:01036954929" class="cta-btn" style="display:inline-flex;padding:14px 28px">신실장 010-3695-4929</a>
+<a href="tel:01041175556" class="cta-btn" style="display:inline-flex;padding:14px 28px">일산룸 총책임자 010-4117-5556</a>
 </main>
 </body>
 </html>

diff --git a/generate-og.py b/generate-og.py
@@ -4,16 +4,33 @@ sys.path.insert(0, '/nix/store/fb6lfadl6w4k7fmxds7lks2jzvg9swlr-python3.11-pillo
 
 from PIL import Image, ImageDraw, ImageFont
 
-FONT_PATH = "/tmp/NotoSansKR-Black.otf"
+
+# [2026-09-22] 폰트 경로 후보 탐색 — 원래 경로를 첫 후보로 그대로 두고,
+# 없으면 저장소 안 → Windows 시스템 폰트 순으로 찾는다. 리눅스 CI 동작은 그대로다.
+import os as _os
+def _pick_font(*cands):
+    for _p in cands:
+        if _p and _os.path.exists(_p):
+            return _p
+    raise OSError("한글 폰트를 못 찾았습니다: " + ", ".join(str(c) for c in cands if c))
+_HERE = _os.path.dirname(_os.path.abspath(__file__))
+_WIN = "C:/Windows/Fonts"
+FONT_PATH = _pick_font(
+    "/tmp/NotoSansKR-Black.otf",
+    _os.path.join(_HERE, "NotoSansKR-Black.otf"),
+    _os.path.join(_HERE, "NotoSansKR-Bold.ttf"),
+    _WIN + "/NotoSansKR-Bold.ttf",
+    _WIN + "/malgunbd.ttf",
+)
 WIDTH, HEIGHT = 1200, 1200
 BG_COLOR = "#1a1a2e"
 ACCENT = "#8B5CF6"
 BAR_HEIGHT = 80
 
 pages = [
-    {"main": "신실장", "sub": "일산룸", "file": "og-home.png"},
-    {"main": "신실장", "sub": "일산룸 초보자 가이드", "file": "og-guide.png"},
-    {"main": "신실장", "sub": "일산룸 지역별 후기", "file": "og-review.png"},
+    {"main": "일산룸 총책임자", "sub": "일산룸", "file": "og-home.png"},
+    {"main": "일산룸 총책임자", "sub": "일산룸 초보자 가이드", "file": "og-guide.png"},
+    {"main": "일산룸 총책임자", "sub": "일산룸 지역별 후기", "file": "og-review.png"},
 ]
 
 
@@ -43,7 +60,7 @@ def generate(page):
 
     target_width = int(WIDTH * 0.8)
 
-    # Main text — 신실장 (HUGE)
+    # Main text — 일산룸 총책임자 (HUGE)
     main_font, main_tw, main_th = find_max_font_size(
         draw, page["main"], FONT_PATH, target_width, max_size=500
     )
